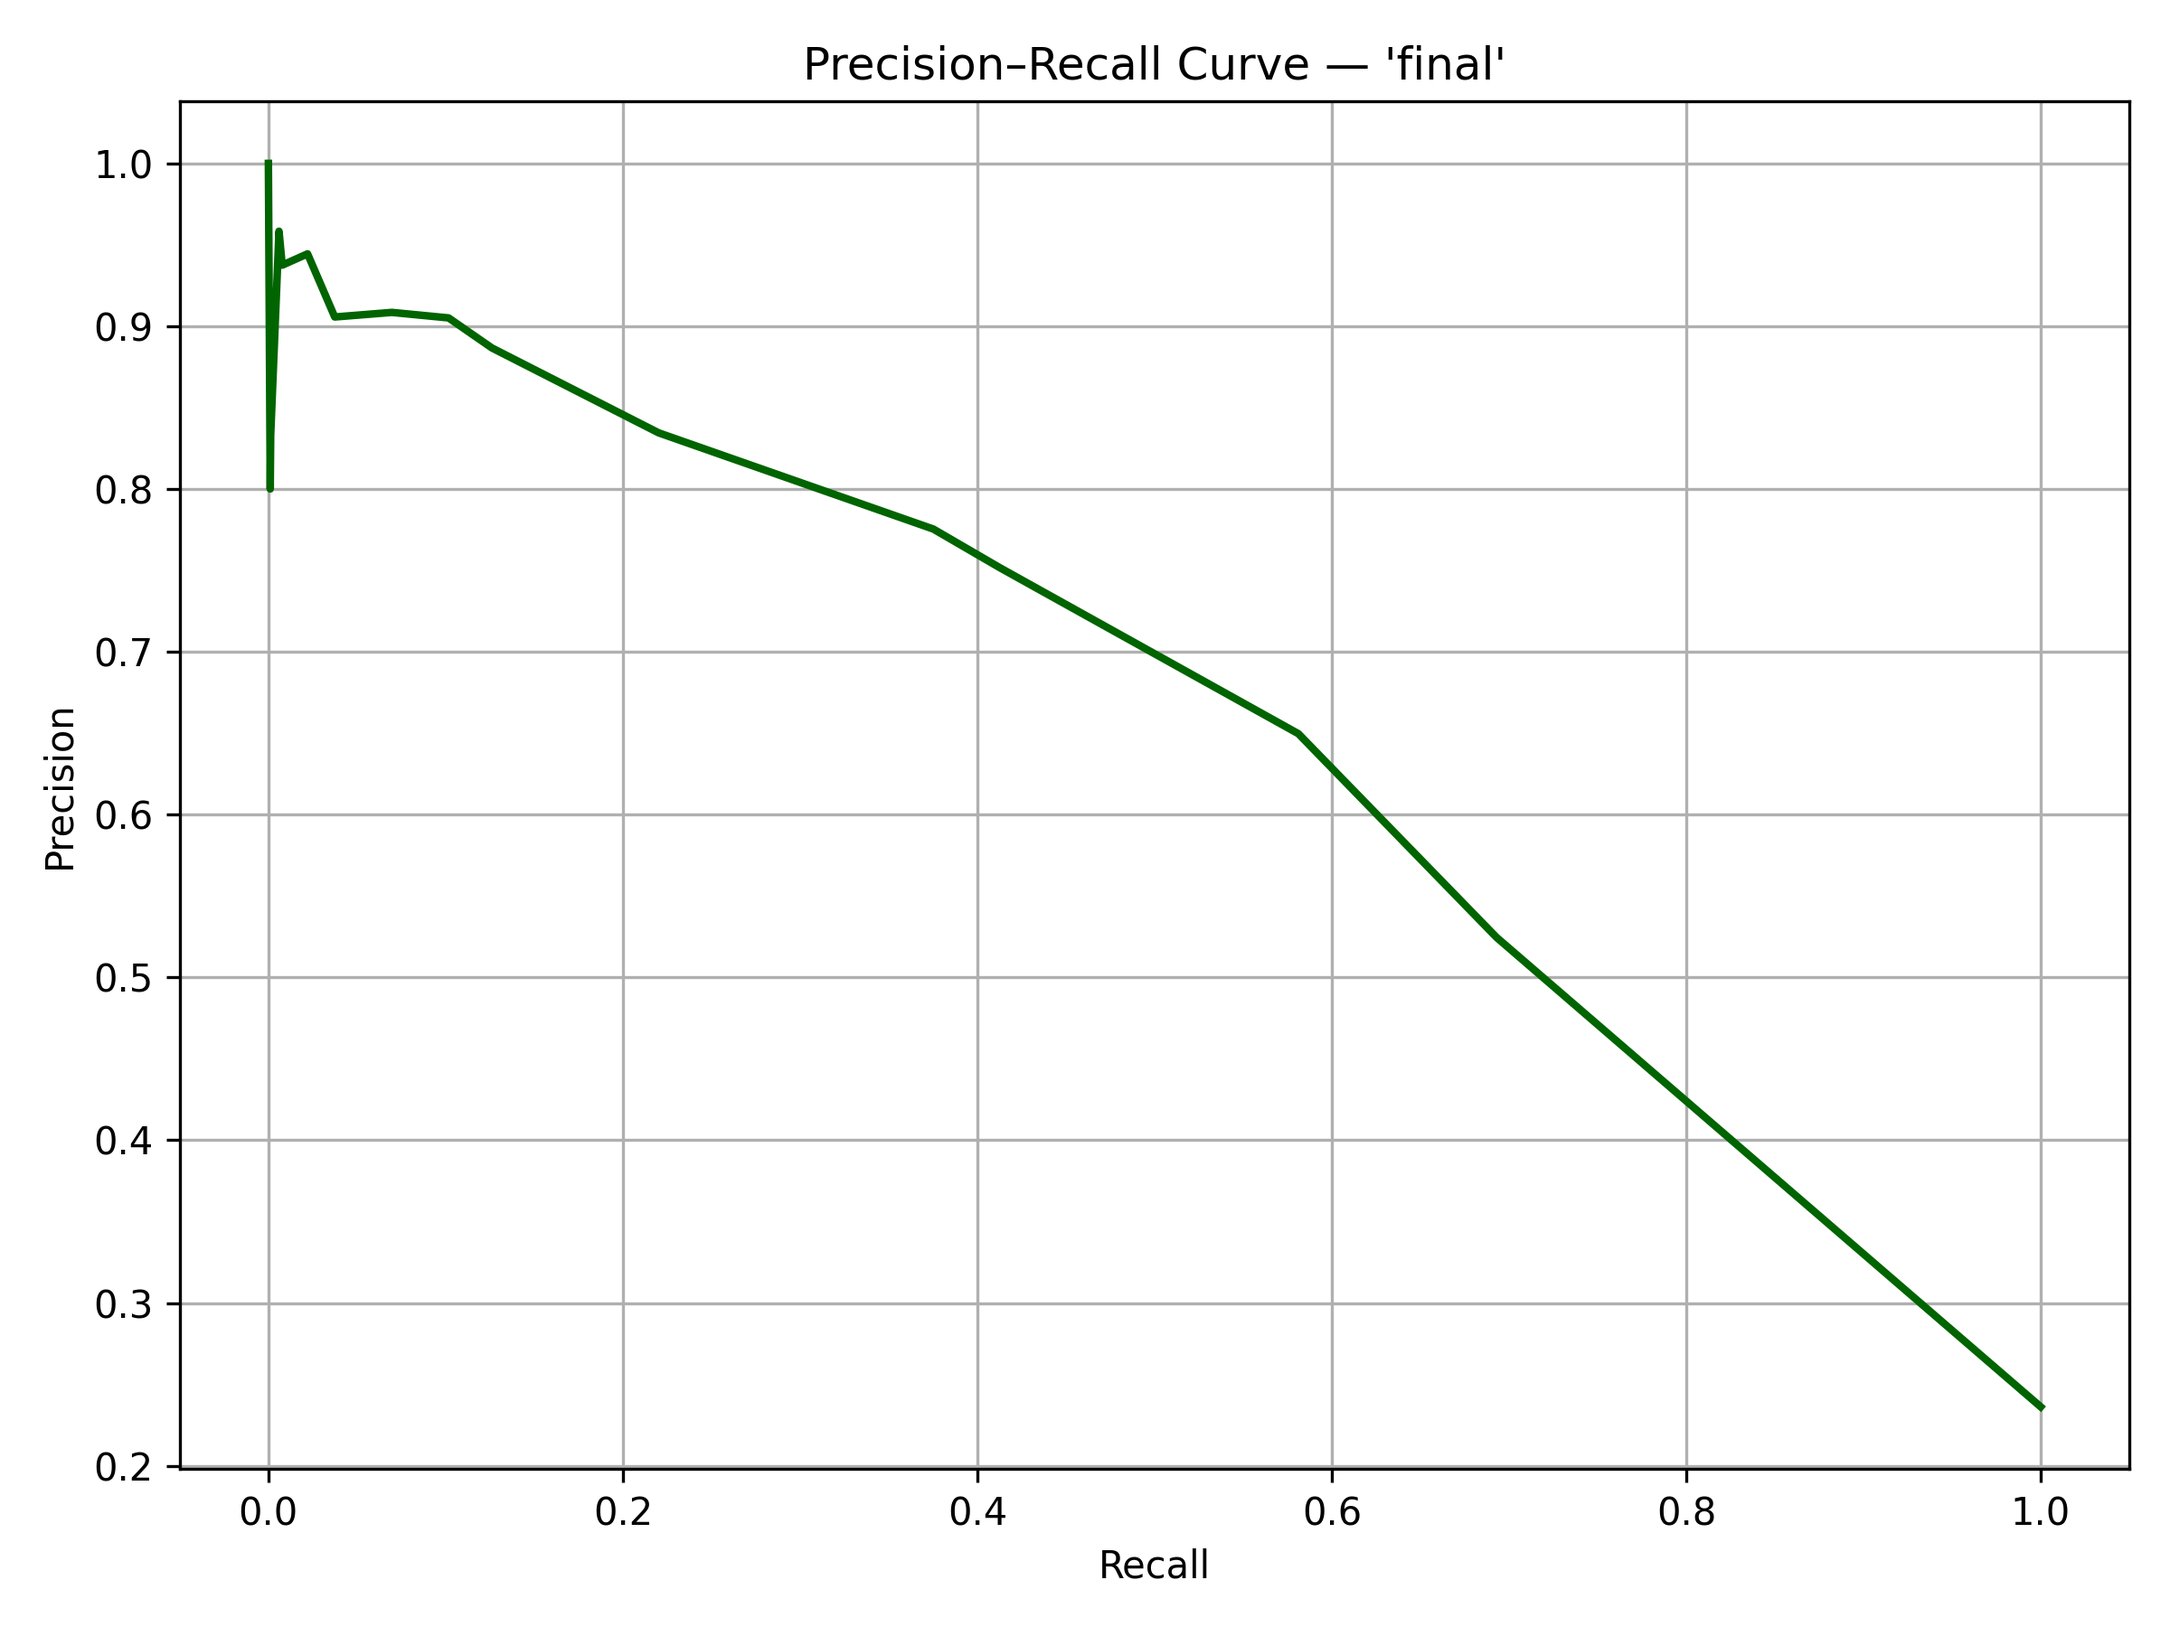
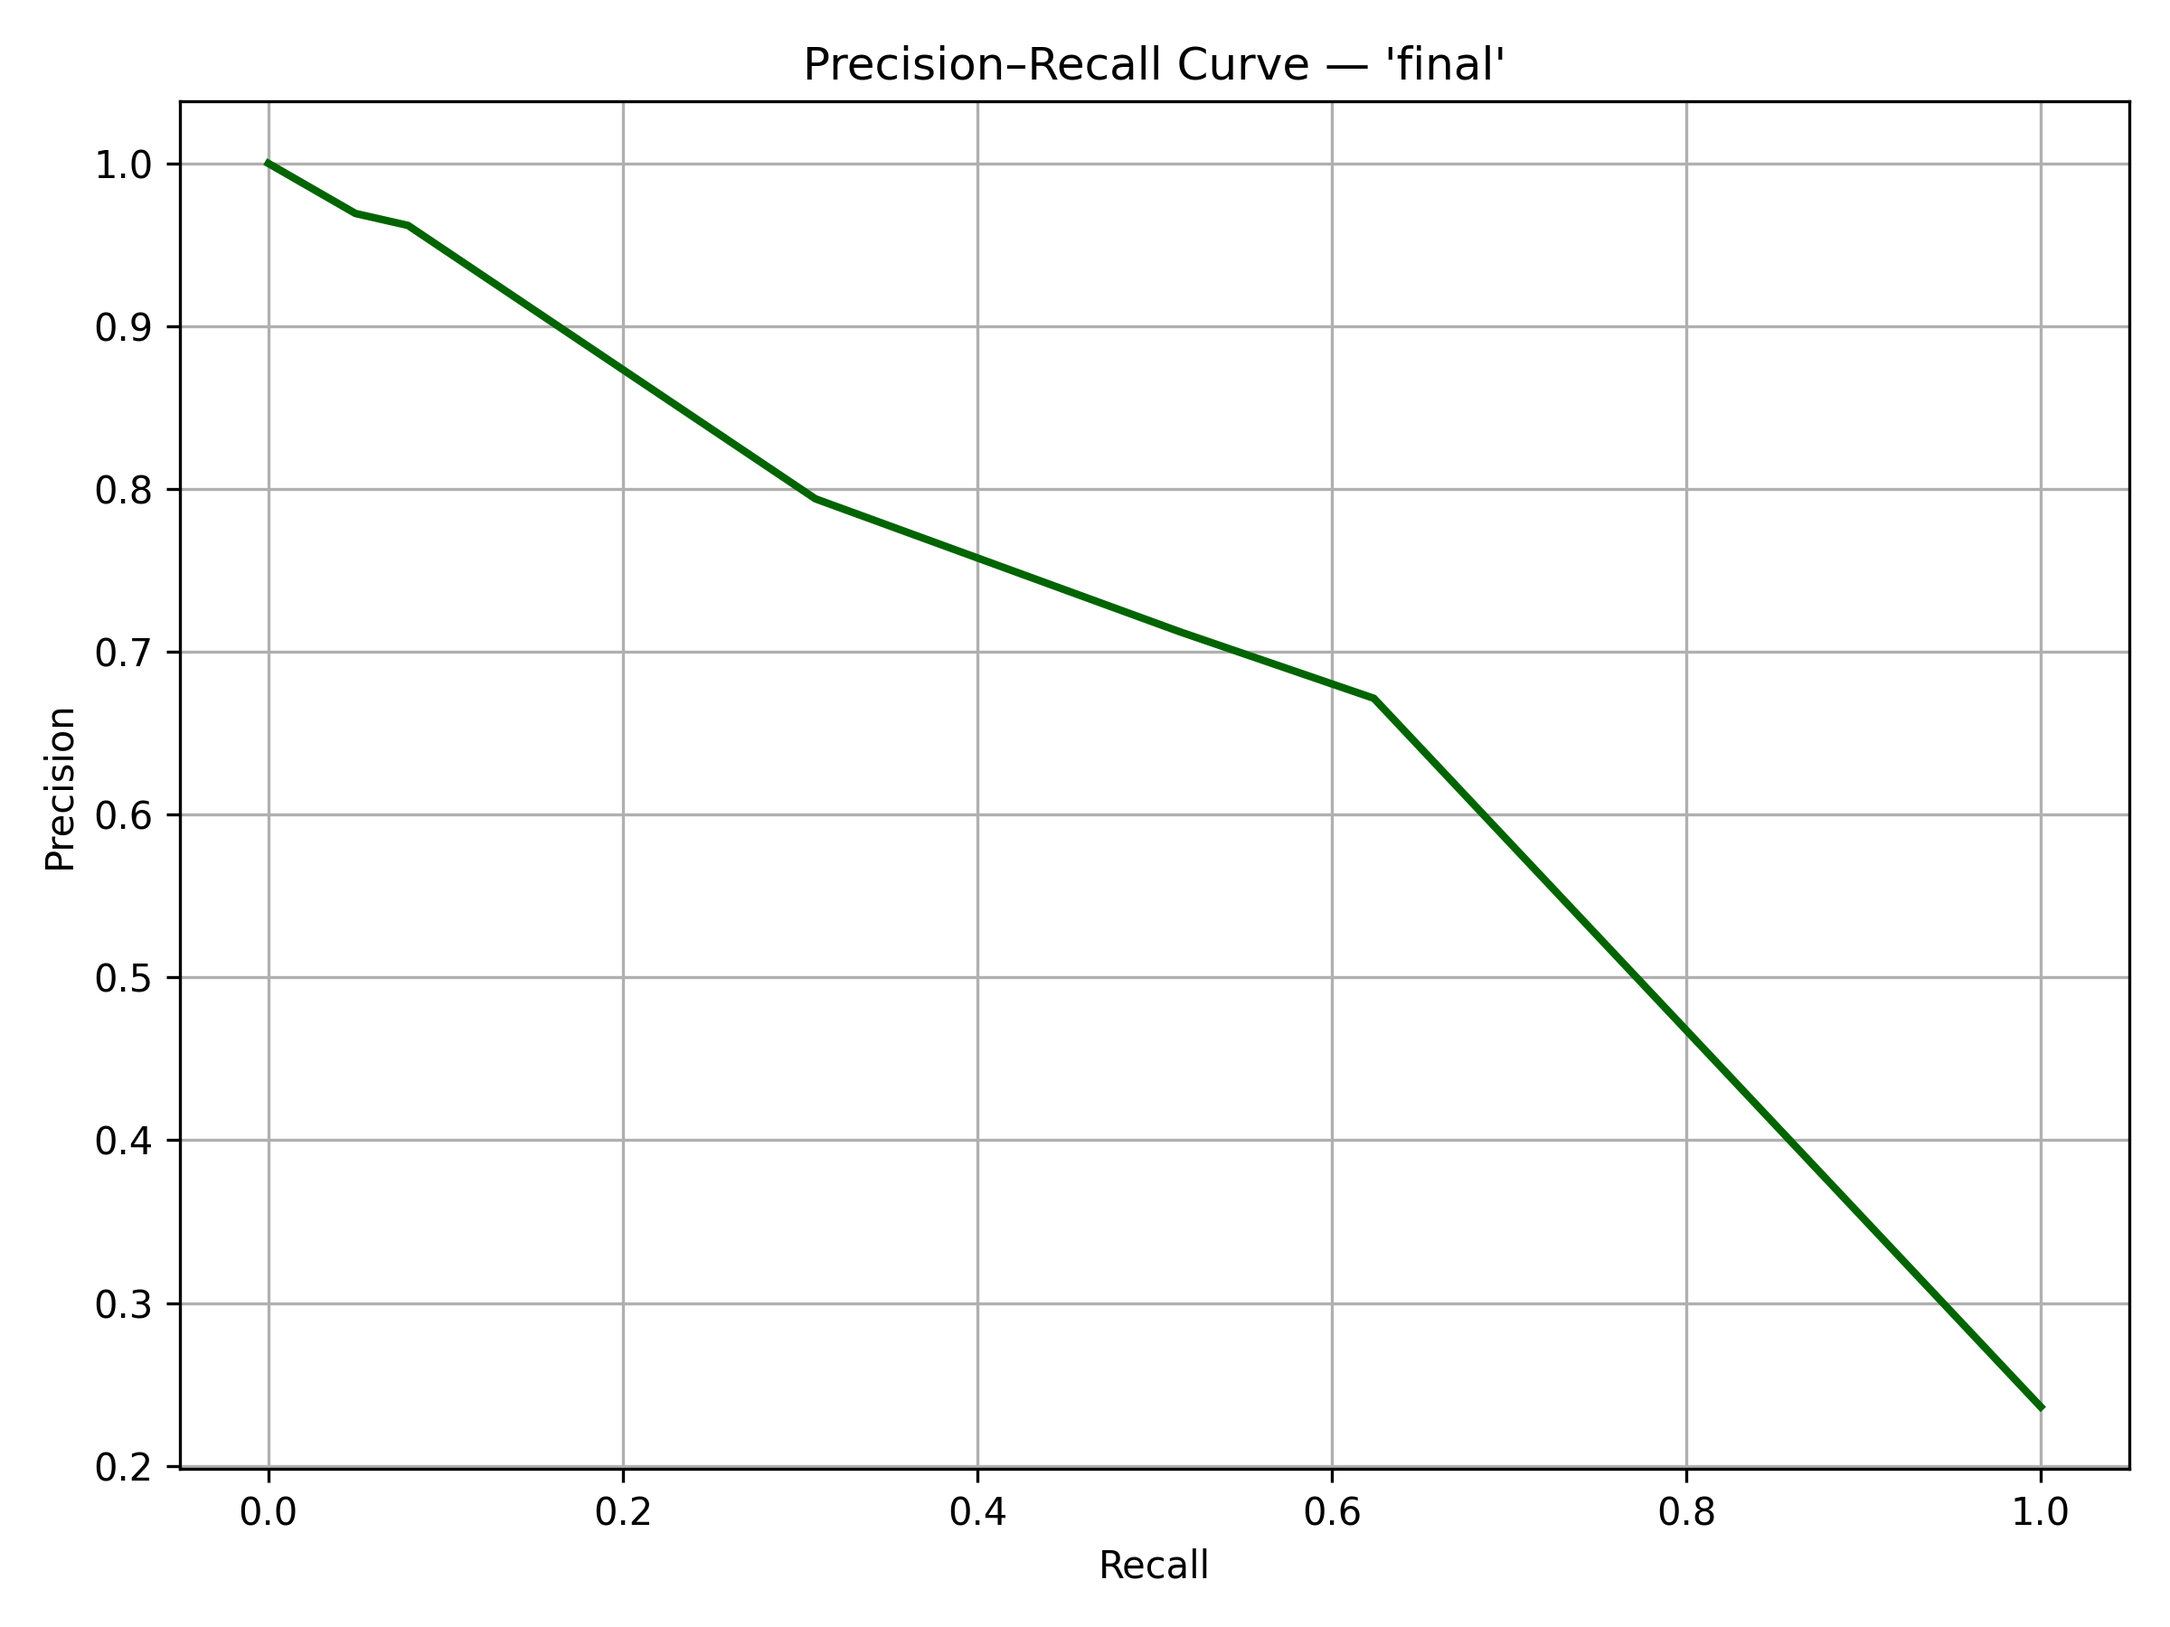
finished model

diff --git a/new_main.py b/new_main.py
@@ -5,7 +5,6 @@
 
 from __future__ import annotations
 
-from dataclasses import dataclass
 from datetime import datetime
 from itertools import combinations
 from typing import Callable, Dict, List, Tuple
@@ -186,6 +185,7 @@ class RuleBasedIncomeModel:
 
         footer = "-" * 80 + f"\n==== End {now} ====\n"
         print(header + overall + table_header + rows + footer)
+        return df
 
 
 # ========================
@@ -327,7 +327,7 @@ def preprocess_df(df_raw: pd.DataFrame, columns: List[str], num_cols: List[str],
 # 3) Analytics Utilities
 # ========================
 
-def plot_rule_metrics(model: RuleBasedIncomeModel, df: pd.DataFrame) -> None:
+def plot_rule_metrics(model: RuleBasedIncomeModel, df: pd.DataFrame, save=False) -> None:
     """
     Plot per-rule F1 vs. activation counts for the active ruleset.
     """
@@ -372,7 +372,12 @@ def plot_rule_metrics(model: RuleBasedIncomeModel, df: pd.DataFrame) -> None:
     ax2.legend(loc="upper right")
     plt.title(f"Rule Performance — '{model.active_ruleset}'")
     plt.tight_layout()
-    plt.show()
+    if save:
+        _ensure_plot_dir()
+        path = f"plots/rule_metrics_{model.active_ruleset}.png"
+        plt.savefig(path, dpi=300)
+        print(f"Feature usage plot saved to {path}")
+    #plt.show()
 
 
 def compute_rule_metrics(model: RuleBasedIncomeModel,
@@ -411,23 +416,82 @@ def compute_rule_metrics(model: RuleBasedIncomeModel,
     out.sort(key=lambda x: x["f1"], reverse=True)
     return out
 
+def export_all_metrics(model, df, ruleset=None, path_prefix="metrics", min_fires=2):
+    """
+    Export both overall performance metrics and per-rule details for a ruleset.
+    Robust to stale df['predicted']: computes overall metrics from a fresh local y_pred,
+    then runs a clean evaluate() to populate per-rule stats that match the console.
 
-def export_rule_metrics_csv(model: RuleBasedIncomeModel, df: pd.DataFrame | None = None,
-                            path: str = "rule_metrics.csv", ruleset: str | None = None) -> None:
-    metrics = compute_rule_metrics(model, df=df, ruleset=ruleset)
-    if not metrics:
-        print("No metrics to export (run model.evaluate(...) first).")
-        return
-
+    Outputs:
+      - {path_prefix}_overall.csv
+      - {path_prefix}_rules.csv
+    """
     import csv
-    fieldnames = ["name", "activations", "TP", "FP", "TN", "FN", "precision", "recall", "f1", "specificity"]
-    with open(path, "w", newline="", encoding="utf-8") as f:
-        writer = csv.DictWriter(f, fieldnames=fieldnames)
-        writer.writeheader()
-        for m in metrics:
-            writer.writerow({k: m.get(k, 0) for k in fieldnames})
-    print(f"Exported {len(metrics)} rule metrics to {path}")
+    from sklearn.metrics import classification_report, accuracy_score
 
+    # pick ruleset
+    ruleset = ruleset or model.active_ruleset
+    model.set_active_ruleset(ruleset)
+
+    # ===== 1) OVERALL METRICS (no side effects) =====
+    # compute a fresh prediction vector to avoid reading stale df['predicted']
+    y_true = df["income"].astype(int).values
+    y_pred_local = model.predict(df, min_fires=min_fires).astype(int).values
+
+    acc = accuracy_score(y_true, y_pred_local)
+    report = classification_report(y_true, y_pred_local, output_dict=True, zero_division=0)
+
+    # safe extraction (keys are '0' and '1')
+    p0 = report.get('0', {}).get('precision', 0.0)
+    r0 = report.get('0', {}).get('recall', 0.0)
+    f0 = report.get('0', {}).get('f1-score', 0.0)
+    p1 = report.get('1', {}).get('precision', 0.0)
+    r1 = report.get('1', {}).get('recall', 0.0)
+    f1 = report.get('1', {}).get('f1-score', 0.0)
+
+    # specificity = TN / (TN + FP)
+    TN = int(((y_true == 0) & (y_pred_local == 0)).sum())
+    FP = int(((y_true == 0) & (y_pred_local == 1)).sum())
+    specificity = TN / (TN + FP) if (TN + FP) > 0 else 0.0
+
+    # write overall
+    overall_path = f"{path_prefix}_overall.csv"
+    with open(overall_path, "w", newline='', encoding='utf-8') as f:
+        w = csv.writer(f)
+        w.writerow(["Metric", "Value"])
+        w.writerow(["Accuracy", acc])
+        w.writerow(["Class 0 Precision", p0])
+        w.writerow(["Class 0 Recall", r0])
+        w.writerow(["Class 0 F1", f0])
+        w.writerow(["Class 1 Precision", p1])
+        w.writerow(["Class 1 Recall", r1])
+        w.writerow(["Class 1 F1", f1])
+        w.writerow(["Specificity (TNR)", specificity])
+
+    # ===== 2) PER-RULE METRICS (match console exactly) =====
+    # reset cumulative stats and re-run a clean evaluation that ALSO writes df['predicted']
+    model.reset_ruleset_stats(ruleset)
+    model.evaluate(df, ruleset=ruleset, min_fires=min_fires)
+
+    # now pull per-rule metrics (these match the console table)
+    rule_metrics = compute_rule_metrics(model, df=df, ruleset=ruleset)
+
+    rule_path = f"{path_prefix}_rules.csv"
+    with open(rule_path, "w", newline='', encoding='utf-8') as f:
+        writer = csv.DictWriter(
+            f,
+            fieldnames=[
+                "name","activations","TP","FP","TN","FN",
+                "precision","recall","f1","specificity"
+            ]
+        )
+        writer.writeheader()
+        for m in rule_metrics:
+            writer.writerow({k: m.get(k, 0) for k in writer.fieldnames})
+
+    print(f"✅ exported metrics for '{ruleset}' (min_fires={min_fires})")
+    print(f"   • overall → {overall_path}")
+    print(f"   • per-rule → {rule_path}")
 
 # ========================
 # 4) Final Curated Rules
@@ -439,51 +503,21 @@ def build_final_rules(model: RuleBasedIncomeModel) -> None:
     and interpretable socio-economic structure. Matches paper methodology.
     """
 
-    # --- socioeconomic + education/occupation ---
-    model.add_rule("married_high_edu",
-                   lambda row: row["marital-status"] == "Married" and row["education-num"] >= 13)
+    model.add_rule("married_professional",
+               lambda r: r["marital-status"] == "Married" and r["occupation"] == "Professional")
 
-    model.add_rule("professional_high_edu",
-                   lambda row: row["occupation"] == "Professional" and row["education-num"] >= 13)
+    model.add_rule("professional_husband",
+                lambda r: r["occupation"] == "Professional" and r["relationship"] == "Husband")
 
-    model.add_rule("high_edu_husband_wife",
-                   lambda row: row["education-num"] >= 13 and row["relationship"] in ["Husband", "Wife"])
-
-    model.add_rule("married_profschool",
-                   lambda row: row["marital-status"] == "Married" and row["education-num"] >= 15)
-
-    model.add_rule("doctorate_professional",
-                   lambda row: row["education-num"] >= 16 and row["occupation"] == "Professional")
-
-    model.add_rule("professional_wife_husband",
-                   lambda row: row["occupation"] == "Professional" and row["relationship"] in ["Wife", "Husband"])
-
-    # --- capital gain ---
     model.add_rule("capital_gain_high",
-                   lambda row: row["capital-gain"] > 5000)
+                lambda r: r["capital-gain"] > 5000)
 
-    model.add_rule("capital_gain_mid",
-                   lambda row: 3000 <= row["capital-gain"] <= 10000)
+    model.add_rule("married_high_edu",
+                lambda r: r["marital-status"] == "Married" and r["education-num"] >= 13)
 
-    model.add_rule("professional_capgain_pos",
-                   lambda row: row["occupation"] == "Professional" and row["capital-gain"] > 0)
-
-    model.add_rule("husband_capgain_pos",
-                   lambda row: row["relationship"] == "Husband" and row["capital-gain"] > 0)
-
-    # --- labour intensity & effort ---
-    model.add_rule("professional_hours_over_45",
-                   lambda row: row["occupation"] == "Professional" and row["hours-per-week"] > 45)
-
-    model.add_rule("hours_40plus_capital_gain_mid",
-                   lambda row: row["hours-per-week"] > 40 and 3000 <= row["capital-gain"] <= 10000)
-
-    # --- combined high-education professional ---
-    model.add_rule("profschool_professional",
-                   lambda row: row["education-num"] >= 15 and row["occupation"] == "Professional")
-
-    model.add_rule("married_doctorate",
-                   lambda row: row["marital-status"] == "Married" and row["education-num"] >= 16)
+    # optional
+    model.add_rule("us_capital_gain_high",
+                lambda r: r["native-country"] == "US" and r["capital-gain"] > 5000)
 
 
 # ========================
@@ -537,15 +571,6 @@ def load_and_preprocess(train_path: str, columns: List[str], num_cols: List[str]
     return preprocess_df(raw, columns=columns, num_cols=num_cols)
 
 
-def run_evaluation(model: RuleBasedIncomeModel, df: pd.DataFrame,
-                   ruleset: str | None = None, min_fires: int = 1) -> pd.DataFrame:
-    """Evaluate model, print metrics, and return df with predictions added."""
-    model.evaluate(df, ruleset=ruleset, min_fires=min_fires)
-    df = df.copy()
-    df["predicted"] = model.predict(df, min_fires=min_fires)
-    return df
-
-
 # ===============================
 #   Visualization / Diagnostics
 # ===============================
@@ -591,7 +616,7 @@ def plot_roc_curve(model, df, save=False):
         plt.savefig(path, dpi=300)
         print(f"ROC curve saved to {path}")
 
-    plt.show()
+    #plt.show()
 
 
 def plot_precision_recall_curve(model, df, save=False):
@@ -622,9 +647,9 @@ def plot_precision_recall_curve(model, df, save=False):
         _ensure_plot_dir()
         path = f"plots/precision_recall_{model.active_ruleset}.png"
         plt.savefig(path, dpi=300)
-        print(f"Precision–Recall curve saved to {path}")
+        print(f"Precision-Recall curve saved to {path}")
 
-    plt.show()
+    #plt.show()
 
 
 def plot_confusion_matrix(df, y_col="income", pred_col="predicted", save=False):
@@ -641,7 +666,7 @@ def plot_confusion_matrix(df, y_col="income", pred_col="predicted", save=False):
         plt.savefig(path, dpi=300)
         print(f"Confusion matrix saved to {path}")
 
-    plt.show()
+    #plt.show()
 
 
 def plot_f1_vs_threshold(model, df, max_fires=6, save=False):
@@ -668,7 +693,7 @@ def plot_f1_vs_threshold(model, df, max_fires=6, save=False):
         plt.savefig(path, dpi=300)
         print(f"F1 vs min_fires plot saved to {path}")
 
-    plt.show()
+    #plt.show()
 
 
 def plot_precision_recall_tradeoff(model, df, max_fires=6, save=False):
@@ -687,7 +712,7 @@ def plot_precision_recall_tradeoff(model, df, max_fires=6, save=False):
     plt.plot(range(1, max_fires + 1), recalls, marker="o", label="Recall", color="tab:orange")
     plt.xlabel("min_fires threshold")
     plt.ylabel("Score")
-    plt.title(f"Precision–Recall Tradeoff — '{model.active_ruleset}'")
+    plt.title(f"Precision-Recall Tradeoff — '{model.active_ruleset}'")
     plt.legend()
     plt.grid(True)
     plt.tight_layout()
@@ -698,7 +723,7 @@ def plot_precision_recall_tradeoff(model, df, max_fires=6, save=False):
         plt.savefig(path, dpi=300)
         print(f"Precision–Recall tradeoff plot saved to {path}")
 
-    plt.show()
+    #plt.show()
 
 
 def plot_rule_scatter(model, save=False):
@@ -716,7 +741,7 @@ def plot_rule_scatter(model, save=False):
 
     plt.xlabel("Rule activations")
     plt.ylabel("F1 score")
-    plt.title(f"Rule Performance Distribution — '{model.active_ruleset}'")
+    plt.title(f"Rule Performance Distribution - '{model.active_ruleset}'")
     plt.grid(True)
     plt.tight_layout()
 
@@ -726,7 +751,7 @@ def plot_rule_scatter(model, save=False):
         plt.savefig(path, dpi=300)
         print(f"Rule scatter plot saved to {path}")
 
-    plt.show()
+    #plt.show()
 
 
 def plot_feature_usage(model, save=False):
@@ -746,7 +771,7 @@ def plot_feature_usage(model, save=False):
     plt.figure(figsize=(8, 5))
     plt.barh(feats, counts, color="slateblue")
     plt.xlabel("Number of rules referencing feature")
-    plt.title(f"Approximate Feature Usage — '{model.active_ruleset}'")
+    plt.title(f"Approximate Feature Usage - '{model.active_ruleset}'")
     plt.gca().invert_yaxis()
     plt.tight_layout()
 
@@ -756,7 +781,7 @@ def plot_feature_usage(model, save=False):
         plt.savefig(path, dpi=300)
         print(f"Feature usage plot saved to {path}")
 
-    plt.show()
+    #plt.show()
 
 
 def main() -> None:
@@ -777,19 +802,19 @@ def main() -> None:
     model.create_ruleset("final")
     model.set_active_ruleset("final")
     build_final_rules(model)
-       # 3) evaluate (require at least 2 rules)
-    df = run_evaluation(model, df, ruleset="final", min_fires=2)
+       # 3) evaluate (require at least 1 rules)
+    min_fires=1
+    df = model.evaluate(df, ruleset="final", min_fires=min_fires)
 
     # 4) visualizations
+    plot_rule_metrics(model, df, save=True)
     plot_roc_curve(model, df, save=True)
     plot_precision_recall_curve(model, df, save=True)
     plot_confusion_matrix(df, save=True)
     plot_f1_vs_threshold(model, df, save=True)
 
     # 5) export metrics
-    export_rule_metrics_csv(model, df, ruleset="final")
-
-
+    export_all_metrics(model, df, ruleset="final", path_prefix="final", min_fires=min_fires)
 
 if __name__ == "__main__":
     main()
